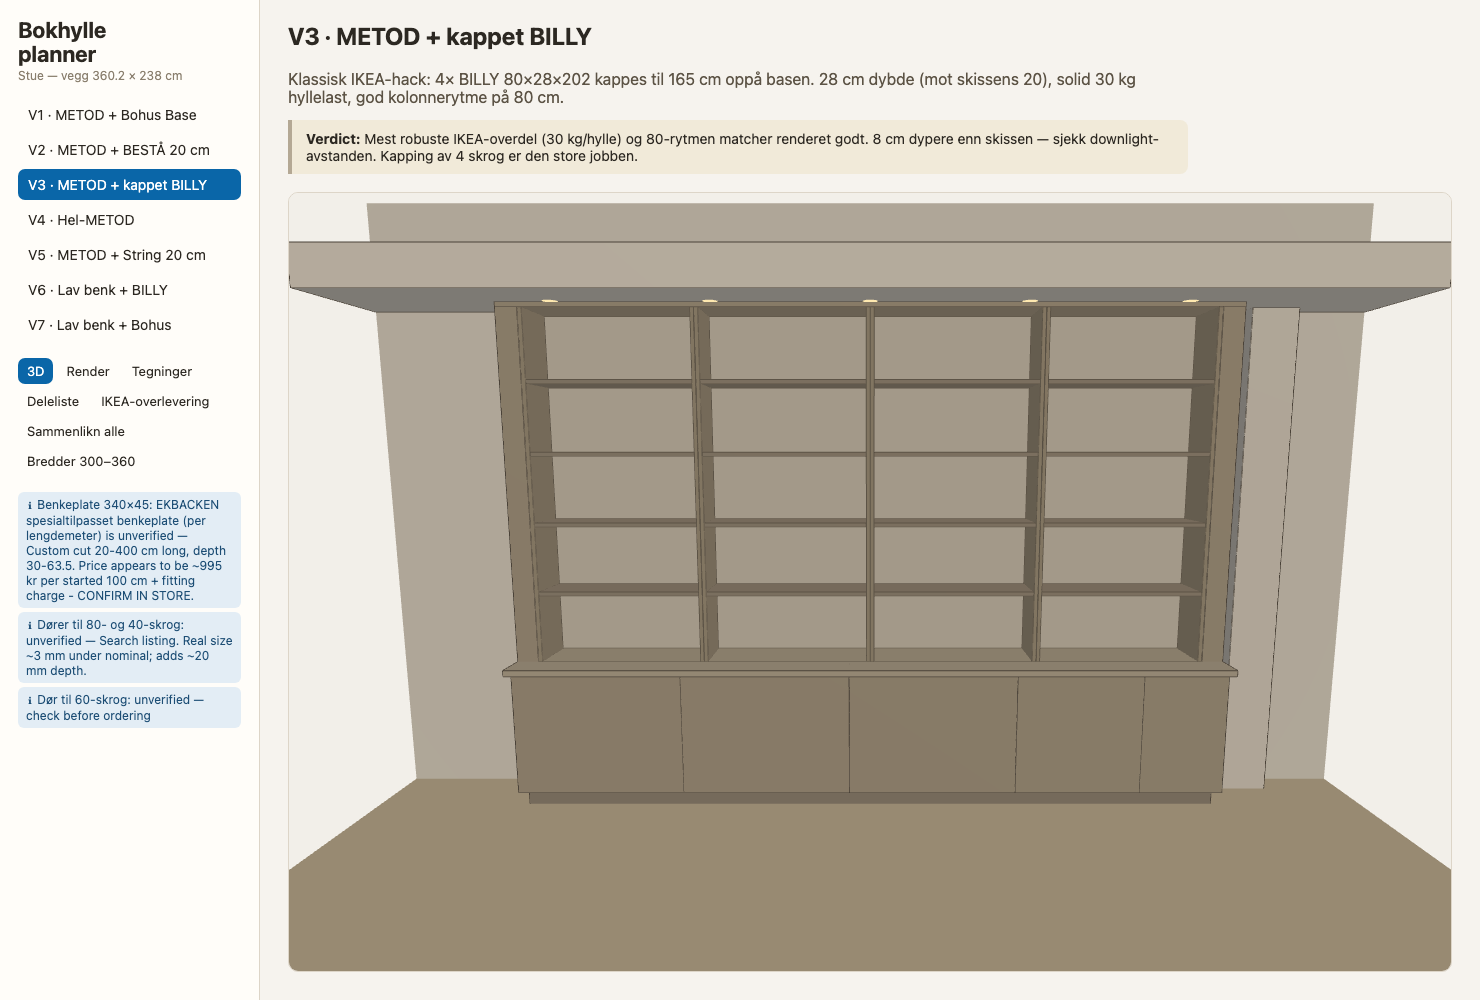
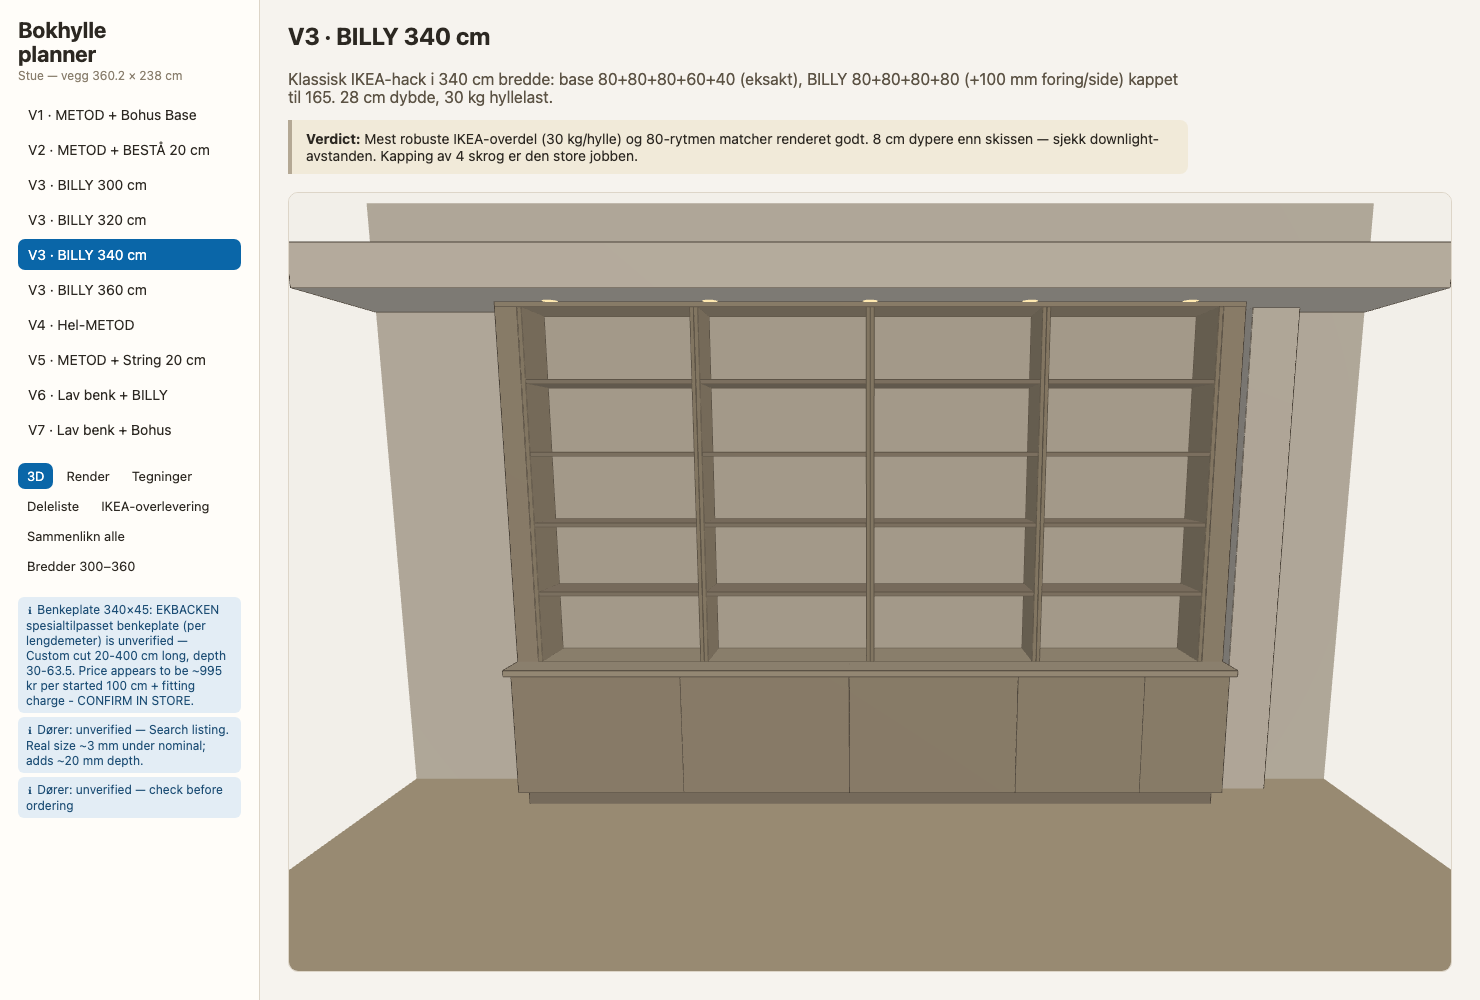
V3 width family: BILLY variant selectable at 300/320/340/360 cm
v3At(width) derives base and BILLY combos from the same solver as the
width explorer (perfect-fit widths 320/360 get zero filler; 360 fills the
free wall with 1 mm nominal clearance, flagged). Hand-audited totals for
all four widths encoded as tests, plus a cross-check that every V3 design
matches the solver's independent total. 65 unit + 53 e2e green.

Changed region(s): [[0.0, 0.155, 0.1865, 0.837], [0.1865, 0.031, 0.8081, 0.124]]

diff --git a/src/designs/common.ts b/src/designs/common.ts
@@ -25,36 +25,55 @@ export const UPPER_Y_LOW = LEG_H + 400 + TOP_H; // 508
 
 const GREIGE = "#b4a894"; // render-ish painted grey-beige
 
-/** Base run used by every variant: METOD wall frames 3×80 + 60 + 40 = 340 cm
- * standing on 8 cm legs, STENSUND-style doors, worktop on top.
- * (No 60 cm high METOD *base* frame exists — wall frames on legs is the trick.) */
-export function metodBase(): { modules: Module[]; extraParts: ExtraPart[] } {
-  const widths = [
-    { w: 800, item: "metod-wall-80x37x60", doors: 2 },
-    { w: 800, item: "metod-wall-80x37x60", doors: 2 },
-    { w: 800, item: "metod-wall-80x37x60", doors: 2 },
-    { w: 600, item: "metod-wall-60x37x60", doors: 1 },
-    { w: 400, item: "metod-wall-40x37x60", doors: 1 },
-  ];
+/** H600 wall-frame item + shaker-door mapping per frame width (shared with the
+ * width solver). */
+export const FRAME_ITEM_H600: Record<number, string> = {
+  800: "metod-wall-80x37x60",
+  600: "metod-wall-60x37x60",
+  400: "metod-wall-40x37x60",
+};
+export const DOOR_FOR_FRAME_H600: Record<number, { doors: number; itemId: string }> = {
+  800: { doors: 2, itemId: "stensund-door-40x60" },
+  600: { doors: 1, itemId: "stensund-door-60x60" },
+  400: { doors: 1, itemId: "stensund-door-40x60" },
+};
+
+/** Base run used by every variant: METOD H600 wall frames standing on 8 cm
+ * legs, STENSUND-style doors, worktop on top. (No 60 cm high METOD *base*
+ * frame exists — wall frames on legs is the trick.) Parametric in frame
+ * widths and unit position; defaults to the 340 cm design. */
+export function metodBase(
+  frameWidths: number[] = [800, 800, 800, 600, 400],
+  unitX: number = UNIT_X,
+  targetWidth: number = TARGET_WIDTH,
+): { modules: Module[]; extraParts: ExtraPart[] } {
+  const runW = frameWidths.reduce((s, w) => s + w, 0);
+  const sideFill = (targetWidth - runW) / 2;
   const modules: Module[] = [];
-  let x = UNIT_X;
-  widths.forEach((f, i) => {
+  let x = unitX + sideFill;
+  frameWidths.forEach((w, i) => {
     modules.push({
       id: `base-${i}`,
-      label: `METOD ${f.w / 10} cm`,
+      label: `METOD ${w / 10} cm`,
       kind: "cabinet",
-      source: { type: "catalogue", itemId: f.item, qty: 1 },
+      source: { type: "catalogue", itemId: FRAME_ITEM_H600[w], qty: 1 },
       x,
       y: LEG_H,
       z: 0,
-      w: f.w,
+      w,
       d: BASE_FRAME_D,
       h: BASE_FRAME_H,
-      doors: f.doors,
+      doors: DOOR_FOR_FRAME_H600[w].doors,
       colorHex: GREIGE,
     });
-    x += f.w;
+    x += w;
   });
+  if (sideFill > 0) {
+    modules.push(
+      filler("bfill-l", unitX, LEG_H, BASE_FRAME_H, sideFill, BASE_FRAME_D),
+      filler("bfill-r", unitX + sideFill + runW, LEG_H, BASE_FRAME_H, sideFill, BASE_FRAME_D),
+    );
+  }
 
   modules.push(
     {
@@ -62,34 +81,42 @@ export function metodBase(): { modules: Module[]; extraParts: ExtraPart[] } {
       label: "Sokkel (malt MDF)",
       kind: "plinth",
       source: { type: "custom", material: "19 mm MDF, malt" },
-      x: UNIT_X + 30,
+      x: unitX + 30,
       y: 0,
       z: 0,
-      w: TARGET_WIDTH - 60,
+      w: targetWidth - 60,
       d: BASE_FRAME_D - 50,
       h: LEG_H,
       colorHex: "#9c9183",
     },
     {
       id: "top",
-      label: "Benkeplate 340×45",
+      label: `Benkeplate ${targetWidth / 10}×45`,
       kind: "top",
-      source: { type: "catalogue", itemId: "ekbacken-custom-top", qty: 4 },
-      x: UNIT_X,
+      source: {
+        type: "catalogue",
+        itemId: "ekbacken-custom-top",
+        qty: Math.ceil(targetWidth / 1000),
+      },
+      x: unitX,
       y: TOP_Y,
       z: 0,
-      w: TARGET_WIDTH,
+      w: targetWidth,
       d: TOP_D,
       h: TOP_H,
-      cut: { note: "EKBACKEN spesialtilpasset 3400×450 mm (pris per påbegynt meter — bekreft i varehus), eller snekkerlevert plate" },
+      cut: { note: `EKBACKEN spesialtilpasset ${targetWidth}×450 mm (pris per påbegynt meter — bekreft i varehus), eller snekkerlevert plate` },
       colorHex: "#c4b9a6",
     },
   );
 
+  const doorQty = new Map<string, number>();
+  for (const w of frameWidths) {
+    const d = DOOR_FOR_FRAME_H600[w];
+    doorQty.set(d.itemId, (doorQty.get(d.itemId) ?? 0) + d.doors);
+  }
   const extraParts: ExtraPart[] = [
-    { itemId: "metod-leg-8cm-2pk", qty: 20, label: "METOD ben (4 per skrog)" },
-    { itemId: "stensund-door-40x60", qty: 7, label: "Dører til 80- og 40-skrog" },
-    { itemId: "stensund-door-60x60", qty: 1, label: "Dør til 60-skrog" },
+    { itemId: "metod-leg-8cm-2pk", qty: frameWidths.length * 4, label: "METOD ben (4 per skrog)" },
+    ...[...doorQty.entries()].map(([itemId, qty]) => ({ itemId, qty, label: "Dører" })),
   ];
 
   return { modules, extraParts };
@@ -161,7 +188,12 @@ export function metodBaseLow(): { modules: Module[]; extraParts: ExtraPart[] } {
 
 /** Crown/scribe closing the gap between unit top and soffit. Side cladding is
  * covered by the end fillers; the painted face frame is priced via the cut list. */
-export function mdfFraming(upperDepth: number, upperTop: number): Module[] {
+export function mdfFraming(
+  upperDepth: number,
+  upperTop: number,
+  unitX: number = UNIT_X,
+  targetWidth: number = TARGET_WIDTH,
+): Module[] {
   const crownH = ROOM.soffitHeightMm - upperTop;
   if (crownH <= 0) return [];
   return [
@@ -170,10 +202,10 @@ export function mdfFraming(upperDepth: number, upperTop: number): Module[] {
       label: `Gesims/losholt mot himling (${crownH} mm)`,
       kind: "panel",
       source: { type: "custom", material: "MDF, skjæres på stedet" },
-      x: UNIT_X,
+      x: unitX,
       y: upperTop,
       z: 0,
-      w: TARGET_WIDTH,
+      w: targetWidth,
       d: upperDepth,
       h: crownH,
       colorHex: GREIGE,

diff --git a/src/designs/variants.ts b/src/designs/variants.ts
@@ -1,4 +1,5 @@
 import type { Design, Module } from "../model/types";
+import { BASE_WIDTHS, BILLY_WIDTHS, bestCombo } from "../model/widths";
 import {
   ROOM,
   TARGET_WIDTH,
@@ -147,52 +148,86 @@ function v2(): Design {
   };
 }
 
-/** V3 — METOD base + 4× BILLY 80 cut to height. */
-function v3(): Design {
-  const base = metodBase();
+/** V3 family — METOD base + BILLY cut to height, at selectable total widths.
+ * Frame/BILLY combos come from the same solver as the width explorer. */
+export const V3_WIDTHS = [3000, 3200, 3400, 3600];
+
+function v3At(targetMm: number): Design {
+  const unitX = Math.round((ROOM.wallWidthMm - targetMm) / 2);
+  const baseCombo = bestCombo(targetMm, BASE_WIDTHS);
+  const billyCombo = bestCombo(targetMm, BILLY_WIDTHS);
+  const base = metodBase(baseCombo.widths, unitX, targetMm);
   const upperH = 1650;
-  const runW = 4 * 800; // 3200
-  const sideFill = (TARGET_WIDTH - runW) / 2; // 100
-  const modules: Module[] = [
-    ...base.modules,
-    filler("fill-l", UNIT_X, UPPER_Y, upperH, sideFill, 280),
-    ...[0, 1, 2, 3].map((i) =>
-      shelfRun(`billy-${i}`, `BILLY ${i + 1} (kappet til 165)`, "billy-80x28x202", {
-        x: UNIT_X + sideFill + i * 800,
+  const sideFill = billyCombo.fillerMm / 2;
+  const billy80Count = billyCombo.widths.filter((w) => w === 800).length;
+
+  let bx = unitX + sideFill;
+  const billyModules: Module[] = billyCombo.widths.map((w, i) => {
+    const m = shelfRun(
+      `billy-${i}`,
+      `BILLY ${w / 10} (kappet til 165)`,
+      w === 800 ? "billy-80x28x202" : "billy-40x28x202",
+      {
+        x: bx,
         y: UPPER_Y,
-        w: 800,
+        w,
         d: 280,
         h: upperH,
         columns: 1,
         shelves: 4,
         cutNote: "Kapp 370 mm av TOPPEN (fabrikkbunn + sokkelkant blir stående på platen). Bruk kappet som borejigg for nye tapp-/kamlåshull til topplaten. Kort inn og re-spikre bakplaten tett etter diagonalmåling.",
-      }),
-    ),
-    filler("fill-r", UNIT_X + sideFill + runW, UPPER_Y, upperH, sideFill, 280),
-    ...mdfFraming(280, UPPER_Y + upperH),
+      },
+    );
+    bx += w;
+    return m;
+  });
+
+  const modules: Module[] = [
+    ...base.modules,
+    ...(sideFill > 0
+      ? [
+          filler("fill-l", unitX, UPPER_Y, upperH, sideFill, 280),
+          filler("fill-r", unitX + sideFill + billyCombo.sumMm, UPPER_Y, upperH, sideFill, 280),
+        ]
+      : []),
+    ...billyModules,
+    ...mdfFraming(280, UPPER_Y + upperH, unitX, targetMm),
   ];
+
+  const isDefault = targetMm === TARGET_WIDTH;
   return {
-    id: "v3-billy",
-    name: "V3 · METOD + kappet BILLY",
+    id: isDefault ? "v3-billy" : `v3-billy-${targetMm / 10}`,
+    name: `V3 · BILLY ${targetMm / 10} cm`,
     description:
-      "Klassisk IKEA-hack: 4× BILLY 80×28×202 kappes til 165 cm oppå basen. 28 cm dybde (mot skissens 20), solid 30 kg hyllelast, god kolonnerytme på 80 cm.",
+      `Klassisk IKEA-hack i ${targetMm / 10} cm bredde: base ${baseCombo.widths.map((w) => w / 10).join("+")}${baseCombo.fillerMm ? ` (+${baseCombo.fillerMm / 2} mm foring/side)` : " (eksakt)"}, ` +
+      `BILLY ${billyCombo.widths.map((w) => w / 10).join("+")}${billyCombo.fillerMm ? ` (+${billyCombo.fillerMm / 2} mm foring/side)` : " (eksakt)"} kappet til 165. ` +
+      "28 cm dybde, 30 kg hyllelast." +
+      (targetMm === 3600 ? " NB: fyller hele friveggen (3602) — krever at sjaktmålet stemmer!" : ""),
     room: ROOM,
-    unitOffsetMm: UNIT_X,
-    targetWidthMm: TARGET_WIDTH,
+    unitOffsetMm: unitX,
+    targetWidthMm: targetMm,
     modules,
     extraParts: [
       ...base.extraParts,
-      { itemId: "billy-extra-shelf-76x26", qty: 4, label: "Ekstra hylleplater" },
+      ...(billy80Count > 0
+        ? [{ itemId: "billy-extra-shelf-76x26", qty: billy80Count, label: "Ekstra hylleplater (80-brede)" }]
+        : []),
     ],
     siteNotes: [
       ...SITE_NOTES,
       "BILLY kappes fra TOPPEN — fabrikkbunnen bærer mot platen (dokumentert i flere bygg, se docs/fastening.md).",
-      "BILLY-gavler treffer ikke METOD-gavlene overalt (80-rytme over 80/60/40) — legg kloss/tverrlekt under platen der gavler lander mellom stammer.",
+      "Der BILLY-gavler lander mellom METOD-gavler: kloss/tverrlekt under platen (se docs/fastening.md).",
       "Innfesting: lommeskruer/klosser ned i platen + feste i vegg i topp per skrog — full oppskrift i docs/fastening.md.",
       "Papirfolie: slip + heftgrunning før maling.",
     ],
     verdict:
-      "Mest robuste IKEA-overdel (30 kg/hylle) og 80-rytmen matcher renderet godt. 8 cm dypere enn skissen — sjekk downlight-avstanden. Kapping av 4 skrog er den store jobben.",
+      targetMm === 3400
+        ? "Mest robuste IKEA-overdel (30 kg/hylle) og 80-rytmen matcher renderet godt. 8 cm dypere enn skissen — sjekk downlight-avstanden. Kapping av 4 skrog er den store jobben."
+        : targetMm === 3200
+          ? "320 treffer eksakt for både base og BILLY (4×80) — null foring, reneste bygget. 20 cm mer luft til sjakten enn 340."
+          : targetMm === 3600
+            ? "Fyller friveggen helt (1 mm klaring på papiret!). Base og BILLY treffer eksakt (4×80+40). Mest hylleplass, men null slingringsmonn — kontrollmål sjakt og vegg først."
+            : "Minste varianten: base 3×80+60 eksakt, BILLY 3×80+40 med 10 cm foring/side. Luftigst, men minst oppbevaring.",
   };
 }
 
@@ -398,4 +433,12 @@ function v7(): Design {
   };
 }
 
-export const DESIGNS: Design[] = [v1(), v2(), v3(), v4(), v5(), v6(), v7()];
+export const DESIGNS: Design[] = [
+  v1(),
+  v2(),
+  ...V3_WIDTHS.map(v3At),
+  v4(),
+  v5(),
+  v6(),
+  v7(),
+];

diff --git a/src/model/audit.test.ts b/src/model/audit.test.ts
@@ -16,10 +16,17 @@ import { bestCombo, planWidth, widthSweep, BASE_WIDTHS, BILLY_WIDTHS, BOHUS_WIDT
  *  + legs 8 packs × 75 (600) + EKBACKEN 4 m (3980) = 8240.
  *  V6 = 8240 + 4×(895+180) = 12540; V7 = 8240 + 4×1899 = 15836.
  *  Unverified: doors 1840 + top 3980 = 5820. */
+/** V3 widths, same arithmetic per width (frames/doors/legs/top + BILLY units):
+ *  300: 1952+2260+600+2985 (base 7797) + 3×1075+795 (4020) = 11817
+ *  320: 1996+2400+600+3980 (base 8976) + 4×1075 (4300)     = 13276
+ *  360: 2425+2700+750+3980 (base 9855) + 4×1075+795 (5095) = 14950 */
 const EXPECTED: Record<string, { total: number; unverified: number }> = {
   "v1-bohus": { total: 17267, unverified: 6540 },
   "v2-besta": { total: 17596, unverified: 6540 },
+  "v3-billy-300": { total: 11817, unverified: 5245 },
+  "v3-billy-320": { total: 13276, unverified: 6380 },
   "v3-billy": { total: 13971, unverified: 6540 },
+  "v3-billy-360": { total: 14950, unverified: 6680 },
   "v4-metod": { total: 14701, unverified: 7210 },
   "v5-string": { total: 26761, unverified: 6540 },
   "v6-lavbenk-billy": { total: 12540, unverified: 5820 },
@@ -62,6 +69,13 @@ describe("width solver", () => {
     const p = planWidth(3400);
     expect(p.totalBilly).toBe(EXPECTED["v3-billy"].total);
     expect(p.totalBohus).toBe(EXPECTED["v1-bohus"].total);
+  });
+
+  it("every V3 width design matches the width solver's total", () => {
+    for (const d of DESIGNS.filter((x) => x.id.startsWith("v3-billy"))) {
+      const p = planWidth(d.targetWidthMm);
+      expect(partsList(d).totalNok, d.id).toBe(p.totalBilly);
+    }
   });
 
   it("sweep covers 3.0–3.6 m in 7 steps, filler always < one module", () => {

diff --git a/src/model/widths.ts b/src/model/widths.ts
@@ -1,4 +1,8 @@
 import { getItem, priceFor } from "./catalogue";
+import {
+  DOOR_FOR_FRAME_H600 as DOOR_FOR_FRAME,
+  FRAME_ITEM_H600 as FRAME_ITEM,
+} from "../designs/common";
 
 /** Width-sweep solver: for a target unit width, find the best arrangement of
  * METOD base frames and upper carcasses (V1 Bohus / V3 BILLY), with fillers. */
@@ -66,17 +70,6 @@ export interface WidthPlan {
   notes: string[];
 }
 
-const DOOR_FOR_FRAME: Record<number, { doors: number; itemId: string }> = {
-  800: { doors: 2, itemId: "stensund-door-40x60" },
-  600: { doors: 1, itemId: "stensund-door-60x60" },
-  400: { doors: 1, itemId: "stensund-door-40x60" },
-};
-
-const FRAME_ITEM: Record<number, string> = {
-  800: "metod-wall-80x37x60",
-  600: "metod-wall-60x37x60",
-  400: "metod-wall-40x37x60",
-};
 
 export function planWidth(targetMm: number): WidthPlan {
   const base = bestCombo(targetMm, BASE_WIDTHS);

diff --git a/src/model/model.test.ts b/src/model/model.test.ts
@@ -30,8 +30,8 @@ describe("METOD base", () => {
 });
 
 describe("designs", () => {
-  it("has seven variants", () => {
-    expect(DESIGNS).toHaveLength(7);
+  it("has ten designs (7 variants, V3 in four widths)", () => {
+    expect(DESIGNS).toHaveLength(10);
   });
 
   for (const d of DESIGNS) {

diff --git a/e2e/app.spec.ts b/e2e/app.spec.ts
@@ -3,7 +3,10 @@ import { expect, test } from "@playwright/test";
 const DESIGNS = [
   "v1-bohus",
   "v2-besta",
+  "v3-billy-300",
+  "v3-billy-320",
   "v3-billy",
+  "v3-billy-360",
   "v4-metod",
   "v5-string",
   "v6-lavbenk-billy",
